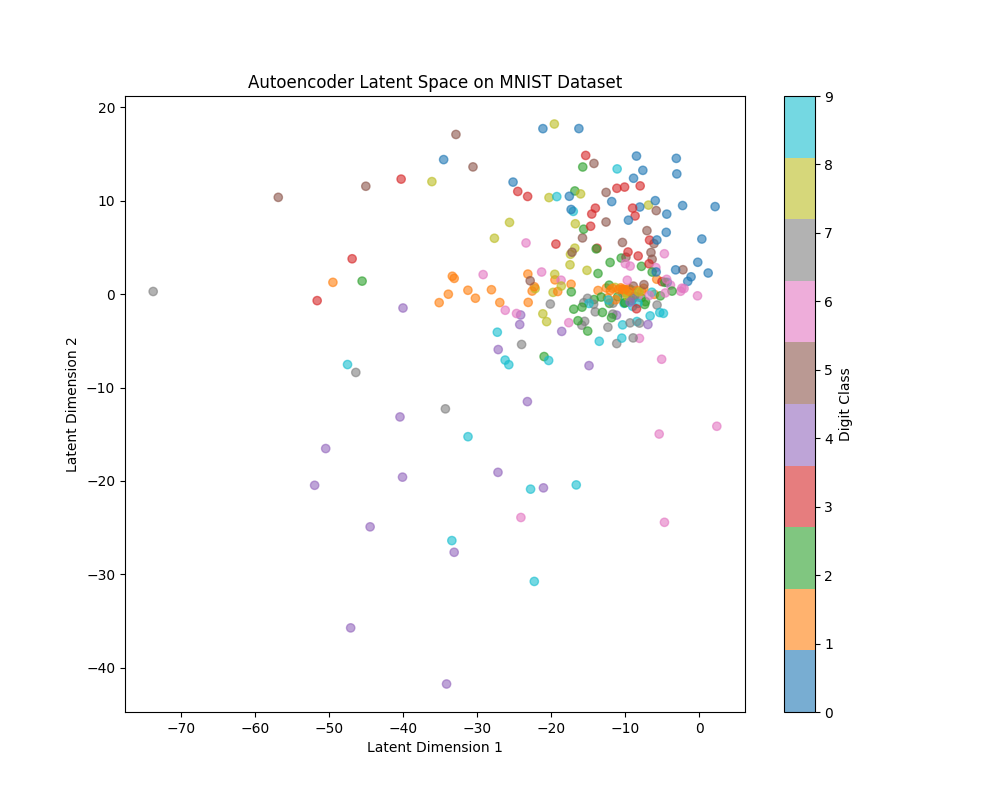
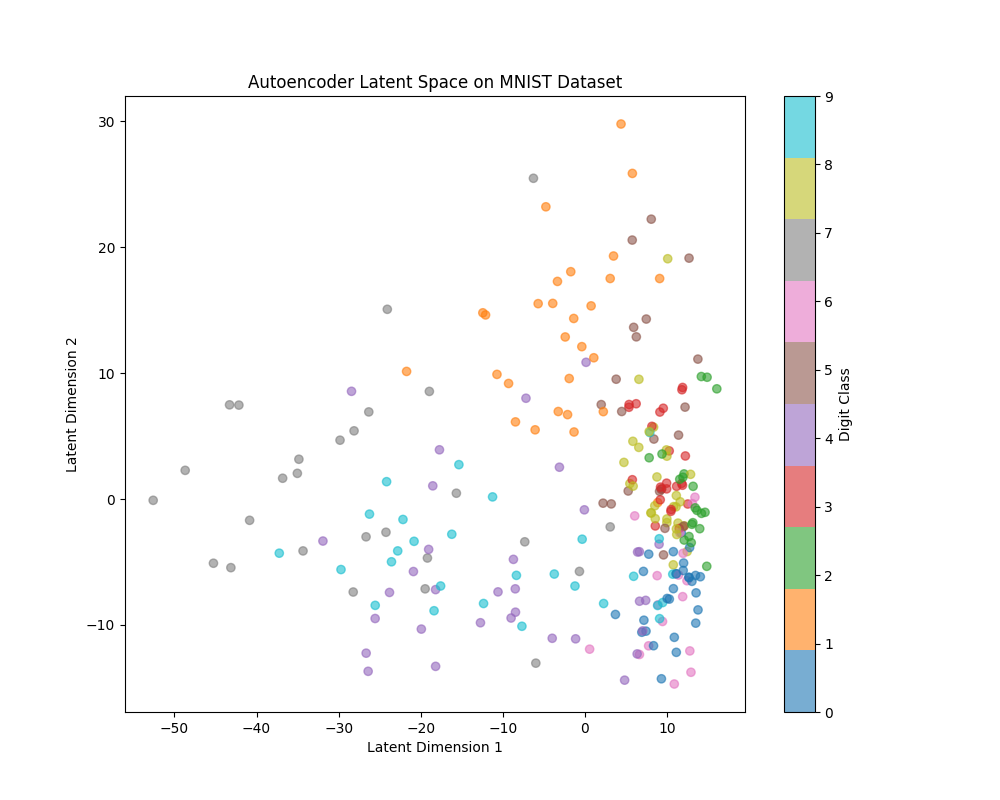
change

diff --git a/src/utils.py b/src/utils.py
@@ -9,7 +9,9 @@ import umap
 
 # Data loading function
 def get_mnist_dataloader(batch_size=256, root="data"):
-    transform = transforms.Compose([transforms.ToTensor(), transforms.Normalize((0.5,), (0.5,))])
+    transform = transforms.Compose([
+        transforms.ToTensor(),  # Converts images to [0, 1] range by default
+    ])
     mnist_train = datasets.MNIST(root=root, train=True, download=True, transform=transform)
     train_loader = DataLoader(mnist_train, batch_size=batch_size, shuffle=True)
     return train_loader
@@ -50,22 +52,33 @@ class ProjectedGPLVM(gpytorch.models.ExactGP):
         return gpytorch.distributions.MultivariateNormal(projected_mean, projected_covariance)
 
 # Autoencoder Model class
-class Autoencoder(nn.Module):
-    def __init__(self, input_dim=784, hidden_dim=128, latent_dim=2):
-        super(Autoencoder, self).__init__()
+class ConvAutoencoder(nn.Module):
+    def __init__(self, latent_dim=2):
+        super(ConvAutoencoder, self).__init__()
         
-        # Encoder network
+        # Encoder network with convolutional and linear layers
         self.encoder = nn.Sequential(
-            nn.Linear(input_dim, hidden_dim),
+            nn.Conv2d(1, 32, kernel_size=3, stride=2, padding=1),  # 28x28 -> 14x14
             nn.ReLU(),
-            nn.Linear(hidden_dim, latent_dim)  # 2D latent space
+            nn.Conv2d(32, 64, kernel_size=3, stride=2, padding=1),  # 14x14 -> 7x7
+            nn.ReLU(),
+            nn.Flatten(),
+            nn.Linear(64 * 7 * 7, 128),
+            nn.ReLU(),
+            nn.Dropout(0.3),
+            nn.Linear(128, latent_dim)  # Project to the 2D latent space
         )
         
-        # Decoder network
+        # Decoder network with transposed convolutions and linear layers
         self.decoder = nn.Sequential(
-            nn.Linear(latent_dim, hidden_dim),
+            nn.Linear(latent_dim, 128),
             nn.ReLU(),
-            nn.Linear(hidden_dim, input_dim),
+            nn.Linear(128, 64 * 7 * 7),
+            nn.ReLU(),
+            nn.Unflatten(1, (64, 7, 7)),
+            nn.ConvTranspose2d(64, 32, kernel_size=3, stride=2, padding=1, output_padding=1),  # 7x7 -> 14x14
+            nn.ReLU(),
+            nn.ConvTranspose2d(32, 1, kernel_size=3, stride=2, padding=1, output_padding=1),  # 14x14 -> 28x28
             nn.Sigmoid()  # Output in [0, 1]
         )
     

diff --git a/README.md b/README.md
@@ -46,35 +46,29 @@ what parameters can be adjusted for improved outcomes?
 
 ### 7. Autoencoders
 
-*Model Adjustments*:
+**Model Adjustments**:
 
-Increase Hidden Layers: Adding more hidden layers with larger dimensions in the encoder and decoder might help the model capture more complex features.
+*Increase Hidden Layers*: Adding more hidden layers with larger dimensions in the encoder and decoder might help the model capture more complex features.
 
-Add Convolutional Layers: For image data like MNIST, convolutional autoencoders (using convolutional layers instead of fully connected layers) can capture spatial hierarchies and may perform better.
+*Add Convolutional Layers*: For image data like MNIST, convolutional autoencoders (using convolutional layers instead of fully connected layers) can capture spatial hierarchies and may perform better.
 
-Regularization Techniques: Adding dropout or batch normalization layers can help improve generalization and potentially create better-separated clusters.
+*Regularization Techniques*: Adding dropout or batch normalization layers can help improve generalization and potentially create better-separated clusters.
 
-*Training Adjustments*:
+**Training Adjustments**:
 
-Increase Training Epochs: Allowing the autoencoder to train for more epochs might improve the reconstruction quality and latent representation.
+*Increase Training Epochs*: Allowing the autoencoder to train for more epochs might improve the reconstruction quality and latent representation.
 
-Tune Learning Rate: A lower learning rate could help the model converge to a better solution, albeit more slowly.
+*Tune Learning Rate*: A lower learning rate could help the model converge to a better solution, albeit more slowly.
 
-## Visualizating the XYZ dataset
+## Visualizating the PBMC dataset
 
-### 1. PPCA
-
-what parameters can be adjusted for better results?
-
-### 2. GPLVM
-
-what parameters can be adjusted for better performance?
-
-### 3. t-SNE
-*Perplexity*: Try values between 5 and 50 to see if it improves separation. Higher perplexity considers more global relationships, which may reduce overlap.
-
-*Learning Rate*: Adjusting the learning rate (e.g., between 50 and 500) might change how clusters are positioned.
-
-### 4. UMAP
-
-what parameters can be adjusted for improved outcomes?
+# 1. Data Loading: Loads the PBMC 3K dataset using Scanpy’s built-in dataset loader.
+# 2.	Preprocessing: Applies sc.pp.recipe_zheng17 to normalize, log-transform, and scale the data, preparing it for analysis.
+# 3.	Dimensionality Reduction:
+    PCA: Computes principal components to reduce the dataset’s dimensionality.
+	Neighbors: Constructs a neighborhood graph, a prerequisite for clustering and UMAP/t-SNE.
+# 4.	Clustering: Uses the Louvain algorithm to group cells into clusters, adding a louvain column to the data object to label each cell’s cluster.
+# 5.	Additional Embeddings:
+	UMAP and t-SNE: Calculates UMAP and t-SNE embeddings for visualizing clusters in 2D.
+# 6.	Visualization:
+	Plots PCA, UMAP, and t-SNE, coloring cells by Louvain clusters to visualize how cells are grouped in each projection.
